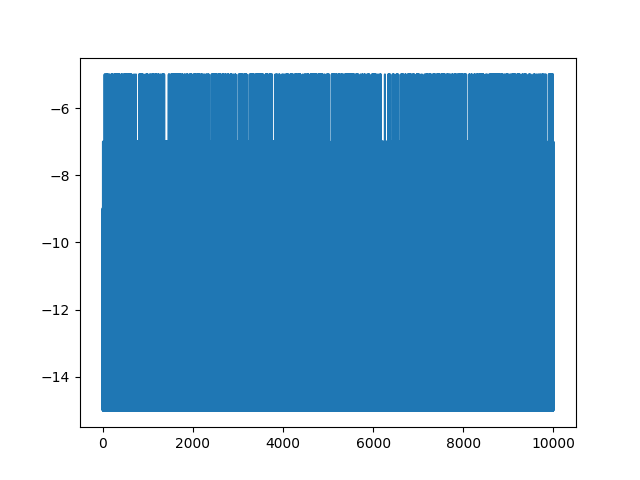
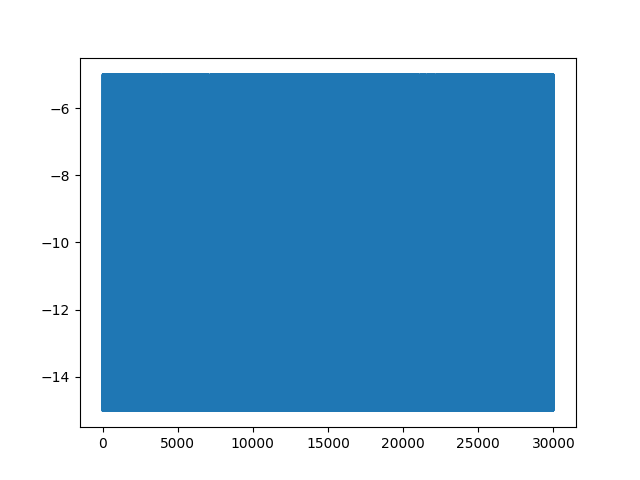
removed appending to dicts in pandas

diff --git a/board_multi_dimensional.py b/board_multi_dimensional.py
@@ -2,24 +2,25 @@ from imports import pd, np, sleep
 from constants import TRAINING_TRIAL_LIMIT, COURSE_LENGTH_X, COURSE_LENGTH_Y
 
 class BoardMultiDimensional:
-    def __init__(self, epsilon=1, limit=TRAINING_TRIAL_LIMIT):
+    def __init__(self, epsilon=1, limit=TRAINING_TRIAL_LIMIT, state_action_average_reward={}):
         self.epsilon = epsilon 
         self.limit = limit
-
+        self.state_action_average_reward = state_action_average_reward
         self.grid = [[0 for i in range(COURSE_LENGTH_X)] for j in range(COURSE_LENGTH_Y)]
 
-        self.state_action_average_reward = {(i, j): {} for i in range(COURSE_LENGTH_Y) for j in range(COURSE_LENGTH_X)}
+        if self.state_action_average_reward == {}:
+            self.state_action_average_reward = {(i, j): {} for i in range(COURSE_LENGTH_Y) for j in range(COURSE_LENGTH_X)}
 
-        for i, row in enumerate(self.grid):
-            for j in range(len(row)):
-                if j < len(row) - 1:
-                    self.state_action_average_reward[(i, j)]['D'] = 0
-                if j > 0:
-                    self.state_action_average_reward[(i, j)]['A'] = 0
-                if i < len(self.grid) - 1:
-                    self.state_action_average_reward[(i, j)]['S'] = 0
-                if i > 0:
-                    self.state_action_average_reward[(i, j)]['W'] = 0
+            for i, row in enumerate(self.grid):
+                for j in range(len(row)):
+                    if j < len(row) - 1:
+                        self.state_action_average_reward[(i, j)]['D'] = 0
+                    if j > 0:
+                        self.state_action_average_reward[(i, j)]['A'] = 0
+                    if i < len(self.grid) - 1:
+                        self.state_action_average_reward[(i, j)]['S'] = 0
+                    if i > 0:
+                        self.state_action_average_reward[(i, j)]['W'] = 0
         
         self.start_pos = [0, 0]
 
@@ -36,7 +37,7 @@ class BoardMultiDimensional:
 
         self.reward = 0
 
-        self.trajectories = pd.DataFrame(columns=['state', 'action', 'reward'])
+        self.trajectories = {'state' : [], 'action' : [], 'reward' : []}
 
         self.y_moves = {'W' : -1, 'S' : 1}
         self.x_moves = {'D' : 1, 'A' : -1}
@@ -51,7 +52,9 @@ class BoardMultiDimensional:
 
         move = self.policy()
         
-        self.trajectories.loc[len(self.trajectories)] = [(self.cur_pos_y, self.cur_pos_x), move, self.penalty]
+        self.trajectories['state'].append((self.cur_pos_y, self.cur_pos_x))
+        self.trajectories['action'].append(move)
+        self.trajectories['reward'].append(self.penalty)
 
         self.cur_pos_y += self.y_moves.get(move, 0)
         self.cur_pos_x += self.x_moves.get(move, 0)

diff --git a/train_multi_dimensional.py b/train_multi_dimensional.py
@@ -10,7 +10,7 @@ epsilon = 1
 
 alpha = 0.3
 
-epochs = 15_000
+epochs = 30_000
 
 undiscounted_rewards = []
 
@@ -22,12 +22,11 @@ for _ in range(epochs):
 
     rewards = list(board.trajectories['reward'])
     discounted_rewards = get_discounted_reward(rewards, discounted_rewards = [])
-    board.trajectories['Gt_reward'] = discounted_rewards
 
     for i in range(len(board.trajectories)):
-        cur_state = board.trajectories.loc[i, 'state']
-        cur_action = board.trajectories.loc[i, 'action']
-        target = board.trajectories.loc[i, 'Gt_reward']
+        cur_state = board.trajectories['state'][i]
+        cur_action = board.trajectories['action'][i]
+        target = discounted_rewards[i]
 
         Q = board.state_action_average_reward[cur_state][cur_action]
 

diff --git a/test_multi_dimensional.py b/test_multi_dimensional.py
@@ -15,7 +15,7 @@ for i, dict in state_action_average_reward.items():
 trial_limit = (COURSE_LENGTH_Y-1) + (COURSE_LENGTH_X-1)
 
 for _ in range(trials):
-    board = BoardMultiDimensional(epsilon = 0, limit=5)
+    board = BoardMultiDimensional(epsilon = 0, limit=100, state_action_average_reward=state_action_average_reward)
     trial_results.append(board.perform_move())
 
 print('\n')

diff --git a/constants.py b/constants.py
@@ -5,4 +5,4 @@ COURSE_LENGTH_X = 6
 
 TRAINING_TRIAL_LIMIT = ((COURSE_LENGTH_Y - 1) + (COURSE_LENGTH_X-1)) * 3
 
-GAMMA_DISCOUNTED_REWARD = 0.99
+GAMMA_DISCOUNTED_REWARD = 0.999
